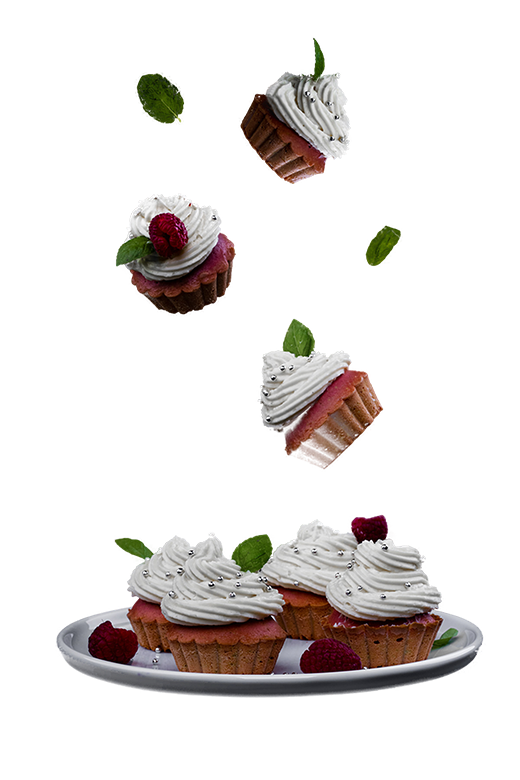
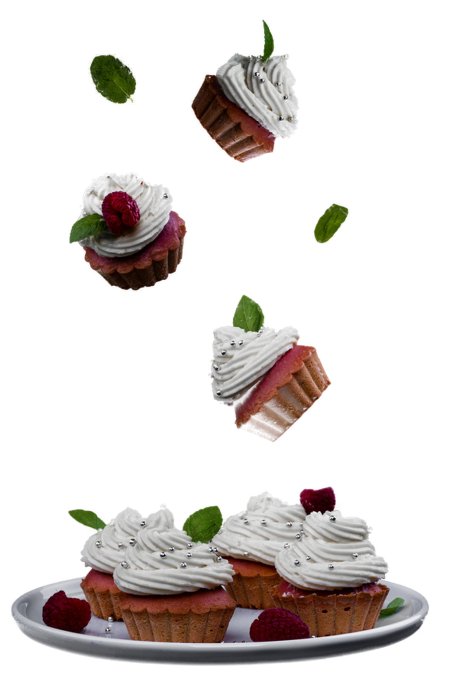
Anytime section.

diff --git a/index.html b/index.html
@@ -16,100 +16,21 @@
     <title>CakeIt! - Home</title>
   </head>
   <body>
-    <header class="header" id="header">
-      <nav class="nav" id="nav">
-        <div class="nav nav__container">
-          <div class="logo">
-            <p class="logo__text-container">
-              <span class="logo__first">Cake</span>It!
-            </p>
-          </div>
-          <div class="nav__hamburger" id="hamburger">
-            <span class="hamburger__line"></span>
-            <span class="hamburger__line"></span>
-          </div>
-        </div>
-        <div class="nav__collapsible">
-          <ul class="nav__list">
-            <li class="nav__item">Home</li>
-            <li class="nav__item">Sobre</li>
-            <li class="nav__item">Produto</li>
-            <li class="nav__item">Contato</li>
-          </ul>
-        </div>
-      </nav>
-    </header>
-    <section class="contact-us">
-      <div class="contact-us__container">
-        <p class="contact-us__text">
-          <span class="contact-us__text__first">Contate-nos</span> e faça o seu
-          pedido. >
-        </p>
-      </div>
-    </section>
-    <section class="cupcake-showcase" id="cupcake-scrollable">
-      <div class="cupcake-showcase__container">
-        <div
-          class="cupcake-showcase__button cupcake-showcase__button--left flex"
-          id="button-left"
-        >
-          <div class="cupcake-showcase__button__container">
-            <span
-              class="
-                cupcake-showcase__button__arrow
-                cupcake-showcase__button__arrow--left
-              "
-              ><</span
-            >
-          </div>
-        </div>
-        <a href="">
-          <div class="cupcake-showcase__item">
-            <figure class="cupcake-showcase__simple"></figure>
-            <p class="cupcake-showcase__text">Cupcake Simples</p>
-          </div>
-        </a>
-        <a href="">
-          <div class="cupcake-showcase__item">
-            <figure class="cupcake-showcase__premium"></figure>
-            <p class="cupcake-showcase__text">Cupcake Premium</p>
-          </div>
-        </a>
-        <a href="">
-          <div class="cupcake-showcase__item">
-            <figure class="cupcake-showcase__super-premium"></figure>
-            <p class="cupcake-showcase__text">Cupcake Super Premium</p>
-          </div>
-        </a>
-        <a href="" class="cupcake-showcase__item--no-margin">
-          <div class="cupcake-showcase__item">
-            <figure class="cupcake-showcase__deluxe"></figure>
-            <p class="cupcake-showcase__text cupcake-showcase__text__deluxe">
-              Cupcake Deluxe
-            </p>
-          </div>
-        </a>
-        <div class="cupcake-showcase__button flex" id="button-right">
-          <div class="cupcake-showcase__button__container">
-            <span class="cupcake-showcase__button__arrow">></span>
-          </div>
-        </div>
-      </div>
-    </section>
-    <section class="hero-every-kind">
-      <div class="hero-every-kind__container sections-flex">
-        <div class="hero__image__container">
-          <figure class="hero__image"></figure>
+    <section class="anytime">
+      <div class="anytime__container sections-flex">
+        <div class="anytime__image__container">
+          <figure class="anytime__image"></figure>
         </div>
         <div class="section__text">
-          <h2 class="section__title">CupCakes de todos os tipos.</h2>
-          <p class="subtitle">Os melhores CupCakes para você.</p>
+          <h2 class="section__title">CupCakes para todos os momentos.</h2>
+          <p class="subtitle">Para a sua festa. Para a sua tarde. Para quando você quiser.</p>
           <p class="section__info">
-            Um CupCake sai a partir de&nbsp;&nbsp;&nbsp;&nbsp; apenas R$3,50.
+            Temos preços para todos os momentos que você imagina!
           </p>
-          <a href="" class="btn btn--primary">Comprar</a>
+          <a href="" class="btn btn--primary">Orçamentos</a>
           <a href="" class="know-more">Saiba mais ></a>
         </div>
+      </div>
       </div>
     </section>
     <script src="js/zoom.js"></script>

diff --git a/css/main.css b/css/main.css
@@ -239,7 +239,7 @@
     max-width: 980px;
   }
 
-  .hero-every-kind .section__text {
+  .section__text {
     align-self: center;
     max-width: 478px;
     margin-left: initial;
@@ -265,5 +265,77 @@
     background-size: 937px 460px;
     background-image: url(../images/home/hand_with_cupcake_large.png);
     margin-right: -432.8px;
+  }
+}
+
+/* Anytime Section */
+.anytime {
+  overflow: hidden;
+  background-color: #fff;
+}
+
+.anytime__container {
+  max-width: 1056px;
+  margin-left: auto;
+  margin-right: auto;
+}
+
+.anytime__image__container {
+  align-self: center;
+}
+
+.anytime__image {
+  width: 289px;
+  height: 433px;
+  background-image: url(../images/home/cupcakes_falling_anytime_small.png);
+  background-size: 289px 433px;
+  background-repeat: no-repeat;
+}
+/* Below we find the styles for the section text of the anytime sections, since we can't reuse the styles from the hero, because we have different
+ width and height in all items. Also, here in anytime: the max-width is already set to the section__text in the first
+ moment, not only in a media query */
+.anytime .section__text {
+  max-width: 300px;
+}
+
+.anytime .section__info {
+  max-width: 282px;
+}
+
+@media screen and (min-width: 768px) {
+  .anytime .section__text {
+    margin-left: initial;
+    margin-right: initial;
+    align-self: center;
+  }
+
+  .anytime__image {
+    width: 390px;
+    height: 582px;
+    background-image: url(../images/home/cupcakes_falling_anytime_medium.png);
+    background-size: 390px 582px;
+    background-repeat: no-repeat;
+    margin-right: 82px;
+  }
+
+  .anytime__container {
+    justify-content: center;
+  }
+}
+
+@media screen and (min-width: 1068px) {
+  .anytime__image {
+    width: 452px;
+    height: 674px;
+    background-image: url(../images/home/cupcakes_falling_anytime_large.png);
+    background-size: 452px 674px;
+  }
+
+  .anytime .section__text {
+    max-width: 478px;
+  }
+
+  .anytime .subtitle {
+    max-width: 369px;
   }
 }
